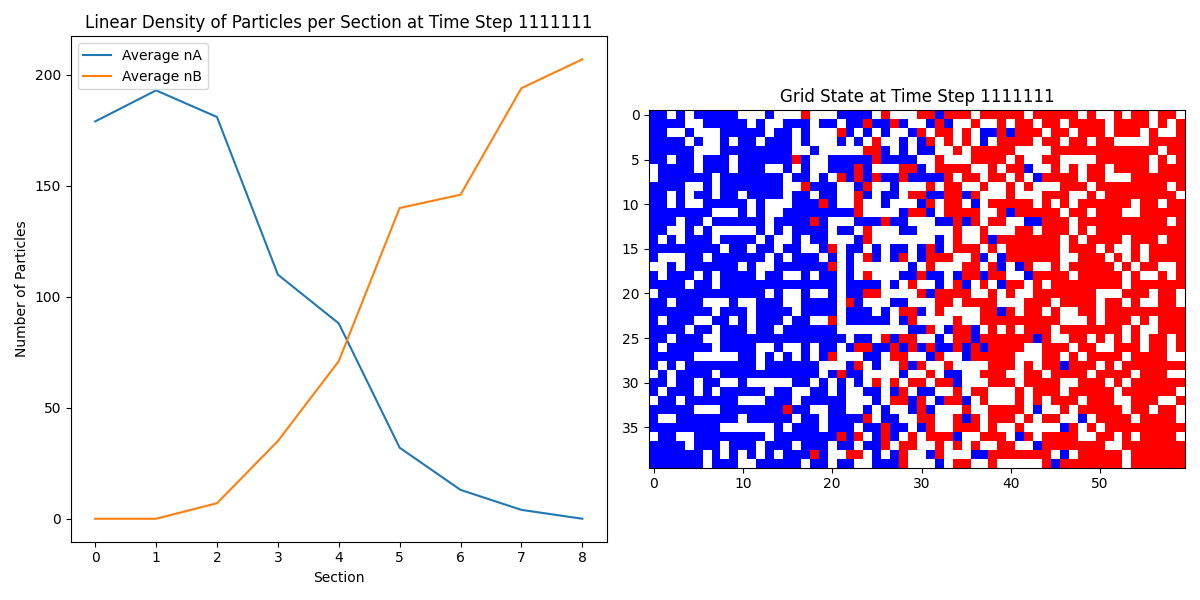
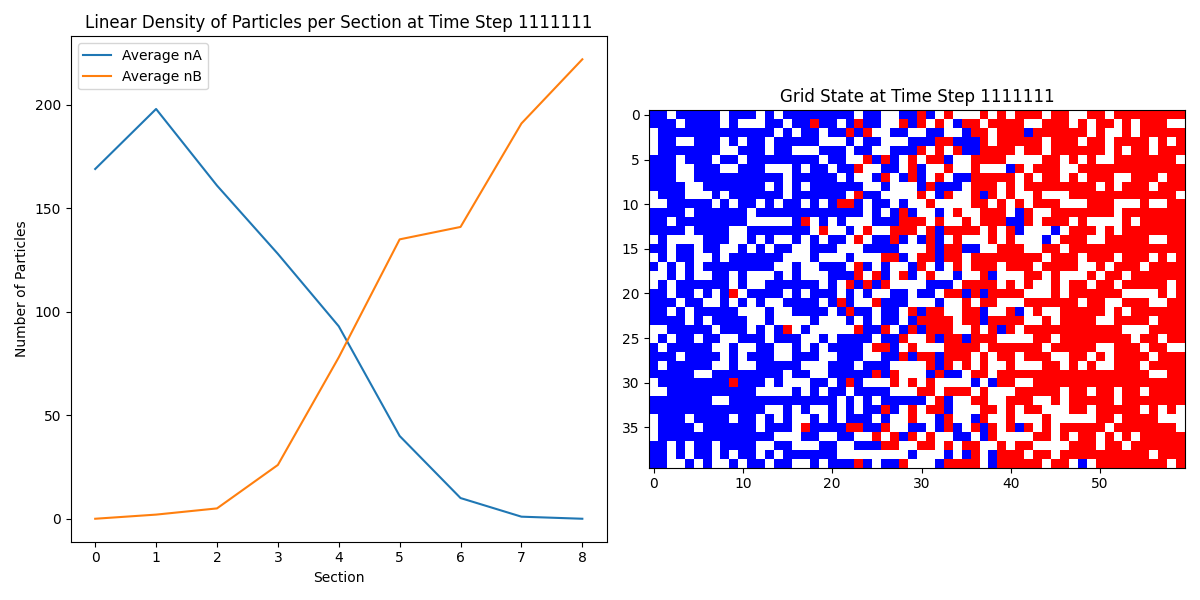
Small type

diff --git a/HW4/gases.py b/HW4/gases.py
@@ -7,6 +7,8 @@ import argparse as argp
 def gases(X,Y,iterations,trials):
     grid_s =[]
     time_interval = np.linspace(0,iterations,10,dtype=int).tolist()
+    time_interval = np.linspace(0, iterations, 10, dtype=int).tolist()
+
     
     def lst_update(t1,t2,lst):
         if lst == 0:
@@ -123,8 +125,9 @@ def gases(X,Y,iterations,trials):
         n = 0
                 
         grid_dic = {}
+        grid_dic[0] = np.copy(grid)
         
-        while n < iterations:
+        while n <= iterations:
             
             a_or_b = random.randint(0,1)
             # print(a_or_b)
@@ -166,7 +169,7 @@ def gases(X,Y,iterations,trials):
 if __name__ == "__main__":
     x = 60
     y = 40
-    iterations = 10
+    iterations = 10**7
     psr = argp.ArgumentParser("gases")
     psr.add_argument('--part', type=str, default="1,2,3",
                      help="enter the part , ")  

diff --git a/HW4/rwalk.py b/HW4/rwalk.py
@@ -100,8 +100,9 @@ def rwalk():
             plt.title('Mean Square Distance (<r^2>)')
             plt.xlabel('Steps')
             plt.ylabel('Mean Square Distance')
-            plt.savefig("(<r^2>).pdf")
             plt.legend()
+            plt.savefig("(<r^2>).pdf")
+            
 
     plt.show()
 
